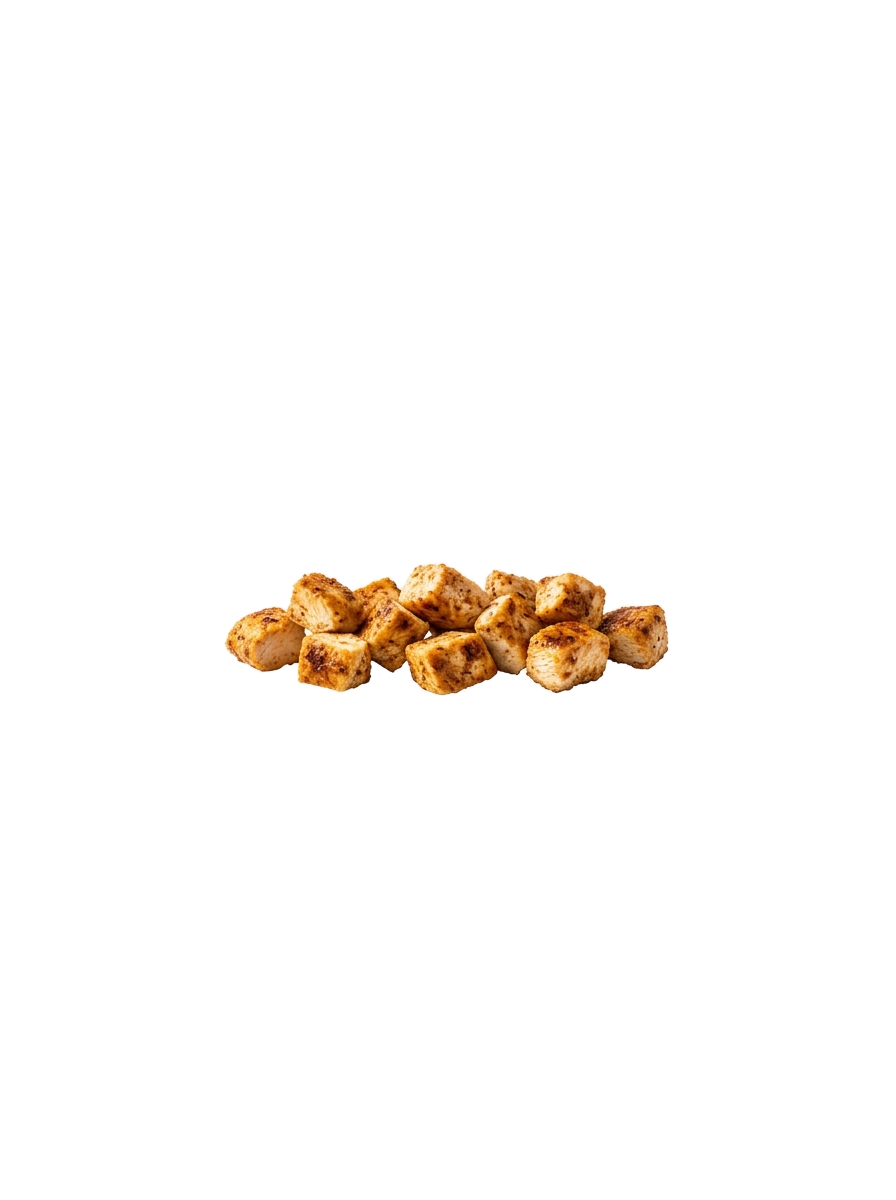
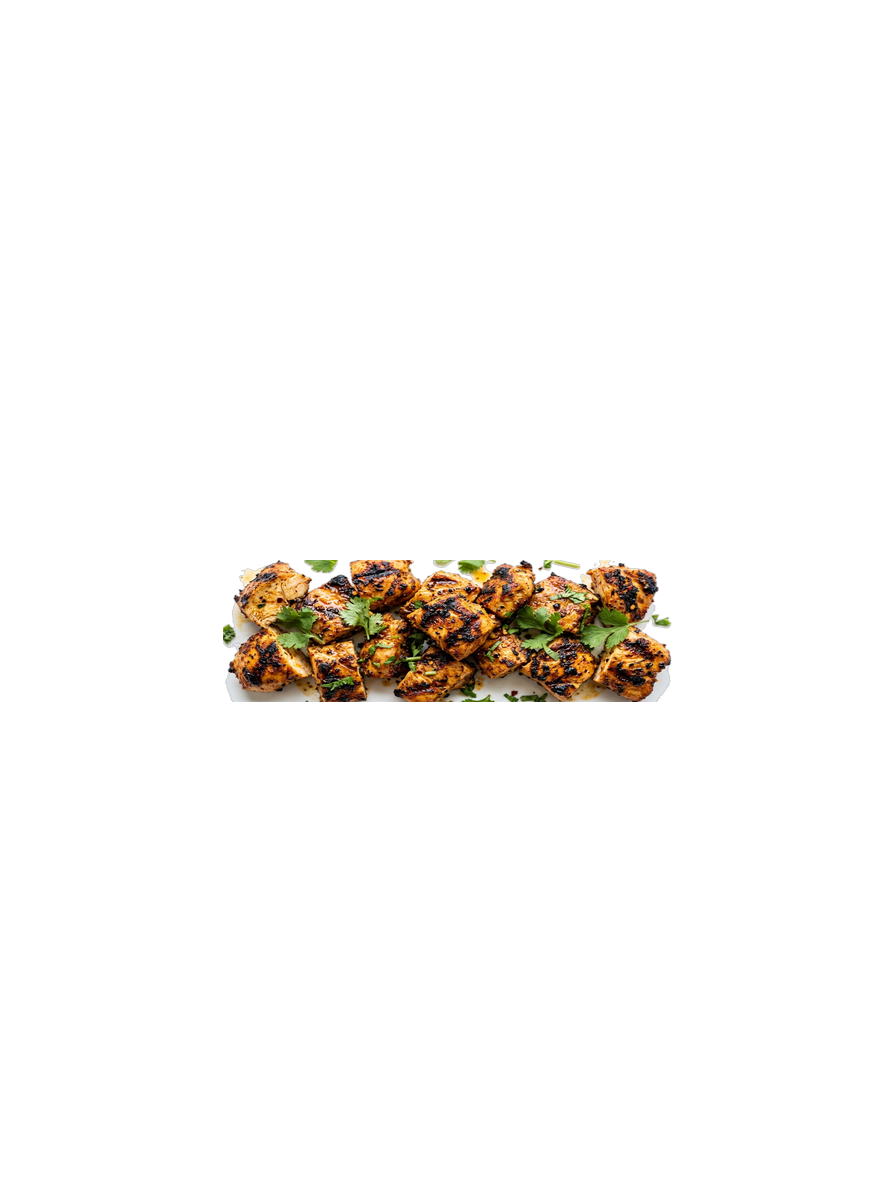
Replace AI-generated salad cutouts with authentic real studio culinary photography layers

Changed region(s): [[0.25, 0.4625, 0.75, 0.5858]]

diff --git a/index.html b/index.html
@@ -1123,11 +1123,11 @@
         <!-- The Deconstructed Salad Stage -->
         <div class="salad-exploded-stage" id="saladStage">
           
-          <!-- Left Callout 1 (Top Left): Grilled Chicken- -->
+          <!-- Left Callout 1 (Top Left): Ripe Hass Avocado -->
           <div class="salad-callout callout-top-left" id="callout1">
             <div class="callout-card">
-              <h5 class="callout-title">Grilled Chicken-</h5>
-              <p class="callout-desc">Citrus-marinated fresh chicken breast, seasoned with real Mexican spices and flame-grilled to order.</p>
+              <h5 class="callout-title">Ripe Hass Avocado</h5>
+              <p class="callout-desc">Freshly sliced creamy Hass avocado fanned with fresh-picked cilantro and sea salt.</p>
             </div>
             <div class="callout-line-wrap line-top-left">
               <svg class="callout-svg" width="140" height="40" viewBox="0 0 140 40">
@@ -1137,7 +1137,7 @@
             </div>
           </div>
 
-          <!-- Right Callout 2 (Top Right): Corn Salsa- -->
+          <!-- Right Callout 2 (Top Right): Fresh Pico De Gallo -->
           <div class="salad-callout callout-top-right" id="callout2">
             <div class="callout-line-wrap line-top-right">
               <svg class="callout-svg" width="140" height="40" viewBox="0 0 140 40">
@@ -1146,16 +1146,16 @@
               </svg>
             </div>
             <div class="callout-card">
-              <h5 class="callout-title">Corn Salsa-</h5>
-              <p class="callout-desc">Fire-charred sweet golden corn tossed with fresh cilantro, diced red onions, and lime juice.</p>
+              <h5 class="callout-title">Fresh Pico De Gallo</h5>
+              <p class="callout-desc">Hand-diced ripe Roma tomatoes, red onions, chopped green jalapeños, and fresh cilantro.</p>
             </div>
           </div>
 
-          <!-- Left Callout 3 (Mid Left): Trilled washed lettuce- -->
+          <!-- Left Callout 3 (Mid Left): Charred Sweet Corn -->
           <div class="salad-callout callout-mid-left" id="callout3">
             <div class="callout-card">
-              <h5 class="callout-title">Trilled washed lettuce-</h5>
-              <p class="callout-desc">Crisp farm-fresh lettuce, triple-washed thoroughly and hand-shredded fresh at sunrise for maximum crunch.</p>
+              <h5 class="callout-title">Charred Sweet Corn</h5>
+              <p class="callout-desc">Fire-roasted golden sweet corn tossed with fresh cilantro, diced red onions, and lime juice.</p>
             </div>
             <div class="callout-line-wrap line-mid-left">
               <svg class="callout-svg" width="140" height="40" viewBox="0 0 140 40">
@@ -1165,7 +1165,7 @@
             </div>
           </div>
 
-          <!-- Right Callout 4 (Mid Right): Spicy Salsa- -->
+          <!-- Right Callout 4 (Mid Right): Flame-Grilled Chicken -->
           <div class="salad-callout callout-mid-right" id="callout4">
             <div class="callout-line-wrap line-mid-right">
               <svg class="callout-svg" width="140" height="40" viewBox="0 0 140 40">
@@ -1174,16 +1174,16 @@
               </svg>
             </div>
             <div class="callout-card">
-              <h5 class="callout-title">Spicy Salsa-</h5>
-              <p class="callout-desc">Slow-simmered fiery house salsa made with fire-roasted tomatoes and whole toasted chilies.</p>
+              <h5 class="callout-title">Flame-Grilled Chicken</h5>
+              <p class="callout-desc">Citrus-marinated fresh chicken breast, seasoned with real Mexican spices and flame-grilled to order.</p>
             </div>
           </div>
 
-          <!-- Left Callout 5 (Bottom Left): Pico De Gallo -->
+          <!-- Left Callout 5 (Bottom Left): Triple-Washed Lettuce -->
           <div class="salad-callout callout-bottom-left" id="callout5">
             <div class="callout-card">
-              <h5 class="callout-title">Pico De Gallo</h5>
-              <p class="callout-desc">Hand-diced Roma tomatoes, red onions, chopped green jalapeños, and fresh-picked cilantro.</p>
+              <h5 class="callout-title">Triple-Washed Lettuce</h5>
+              <p class="callout-desc">Crisp farm-fresh romaine lettuce, triple-washed thoroughly and hand-shredded fresh at sunrise for crunch.</p>
             </div>
             <div class="callout-line-wrap line-bottom-left">
               <svg class="callout-svg" width="140" height="40" viewBox="0 0 140 40">
@@ -1193,7 +1193,7 @@
             </div>
           </div>
 
-          <!-- Right Callout 6 (Bottom Right): Beans- -->
+          <!-- Right Callout 6 (Bottom Right): Slow-Simmered Beans -->
           <div class="salad-callout callout-bottom-right" id="callout6">
             <div class="callout-line-wrap line-bottom-right">
               <svg class="callout-svg" width="140" height="40" viewBox="0 0 140 40">
@@ -1202,8 +1202,8 @@
               </svg>
             </div>
             <div class="callout-card">
-              <h5 class="callout-title">Beans-</h5>
-              <p class="callout-desc">Slow-simmered tender black and pinto beans infused with cumin, garlic, and Mexican herbs.</p>
+              <h5 class="callout-title">Slow-Simmered Beans</h5>
+              <p class="callout-desc">Slow-simmered tender black and pinto beans infused with roasted cumin, garlic, and Mexican herbs.</p>
             </div>
           </div>
 
